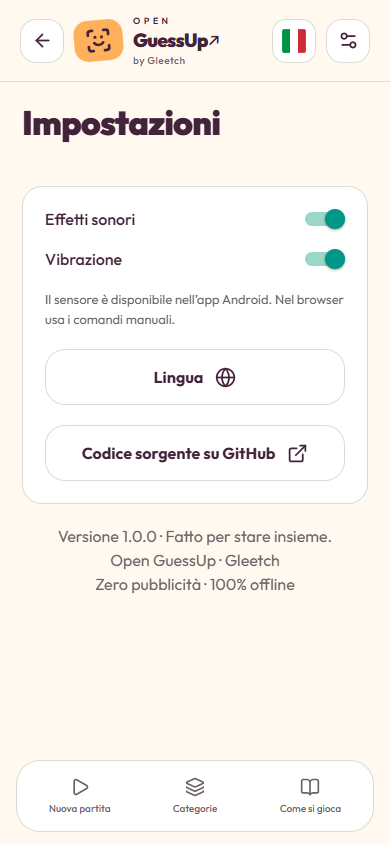
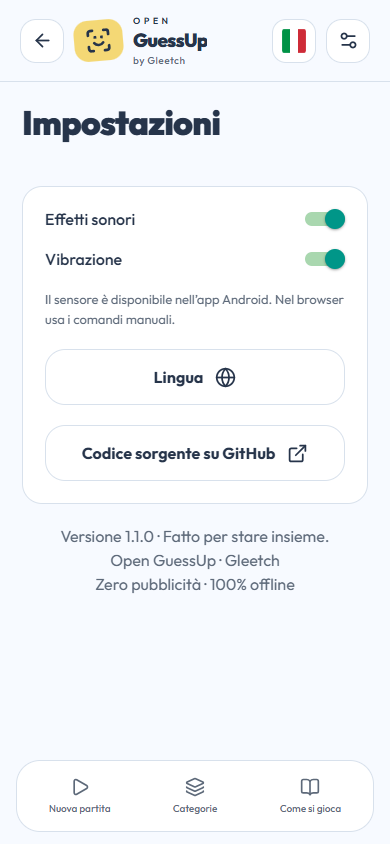
Release Open GuessUp v1.1.0 with installation README

diff --git a/src/i18n/messages.ts b/src/i18n/messages.ts
@@ -77,7 +77,7 @@ Metti il telefono sulla fronte. Non sbirciare: gli amici vedono la parola, tu no
 Segui l’indizio: descrivi senza dire la risposta, mima senza parlare, canta senza dire il titolo o imita senza fare il nome.|||Follow the clue: describe without saying the answer, mime silently, sing without naming the title, or impersonate without naming the person.|||Sigue la pista: describe sin decir la respuesta, haz mímica en silencio, canta sin decir el título o imita sin decir el nombre.|||Beschreiben ohne Lösungswort, stumm darstellen, singen ohne Titel oder imitieren ohne Namen.|||Suis l’indice : décris sans dire la réponse, mime en silence, chante sans citer le titre ou imite sans donner le nom.
 Giù: +1. Su: passa. Ritorna al centro. Alla fine correggete gli esiti insieme e confermate. Vince chi ha più punti; il pareggio si festeggia insieme.|||Down: +1. Up: skip. Return to centre. Review outcomes together before confirming. Most points wins; celebrate ties together.|||Abajo: +1. Arriba: pasar. Vuelve al centro. Revisad los resultados y confirmad. Gana quien tenga más puntos; los empates se celebran juntos.|||Runter: +1. Hoch: passen. Zurück zur Mitte. Ergebnisse gemeinsam prüfen und bestätigen. Die meisten Punkte gewinnen; Gleichstand wird gemeinsam gefeiert.|||En bas : +1. En haut : passer. Reviens au centre. Vérifiez les résultats ensemble et confirmez. Le meilleur score gagne ; une égalité se fête ensemble.
 Archiviazione non disponibile: mantieni aperta l’app per conservare la partita.|||Storage unavailable: keep the app open to retain the game.|||Almacenamiento no disponible: mantén la app abierta para conservar la partida.|||Speicher nicht verfügbar: App geöffnet lassen, um das Spiel zu behalten.|||Stockage indisponible : garde l’application ouverte pour conserver la partie.
-Versione 1.0.0 · Fatto per stare insieme.|||Version 1.0.0 · Made to be together.|||Versión 1.0.0 · Hecho para estar juntos.|||Version 1.0.0 · Für gemeinsame Momente.|||Version 1.0.0 · Pour être ensemble.
+Versione {{0}} · Fatto per stare insieme.|||Version {{0}} · Made to be together.|||Versión {{0}} · Hecho para estar juntos.|||Version {{0}} · Für gemeinsame Momente.|||Version {{0}} · Pour être ensemble.
 Torna al centro|||Return to centre|||Vuelve al centro|||Zurück zur Mitte|||Reviens au centre
 Nessuna parola prima del via. Promesso.|||No word before the start. Promise.|||Ninguna palabra antes de empezar. Prometido.|||Kein Wort vor dem Start. Versprochen.|||Aucun mot avant le départ. Promis.
 Sei pronto?|||Ready?|||¿Listo?|||Bereit?|||Prêt ?

diff --git a/src/screens/Menu.tsx b/src/screens/Menu.tsx
@@ -51,6 +51,7 @@ import {
 } from "../components/UI";
 import { HeroArt } from "../components/HeroArt";
 import { C, FONT, accentInk } from "../theme";
+import { APP_VERSION } from "../version";
 import { LANGUAGES, useI18n } from "../i18n/context";
 import { categories } from "../data/catalog";
 import { CustomDeck, parseWords, validDeck } from "../data/custom";
@@ -261,7 +262,12 @@ export function Home({
         <View style={{ flexDirection: mobile ? "column" : "row", gap: 16 }}>
           {[
             [Zap, "Rapida", "Un turno, tutti contro il timer.", C.yellow],
-            [Users, "A squadre", "2–4 squadre. Una fronte alla volta.", C.green],
+            [
+              Users,
+              "A squadre",
+              "2–4 squadre. Una fronte alla volta.",
+              C.green,
+            ],
           ].map(([I, title, sub, color], i) => {
             const Icon = I as typeof Users;
             return (
@@ -338,7 +344,7 @@ export function Home({
           paddingBottom: 12,
         }}
       >
-        {t("Versione 1.0.0 · Fatto per stare insieme.")}
+        {t("Versione {{0}} · Fatto per stare insieme.", APP_VERSION)}
       </Txt>
     </View>
   );

diff --git a/App.tsx b/App.tsx
@@ -47,6 +47,7 @@ import {
   Txt,
 } from "./src/components/UI";
 import { C, FONT } from "./src/theme";
+import { APP_VERSION } from "./src/version";
 import { LanguageFlag } from "./src/components/LanguageFlag";
 import { Decks, Home, Rules, Setup, Toggle } from "./src/screens/Menu";
 import { Match } from "./src/screens/Match";
@@ -582,7 +583,10 @@ function Main() {
                         lineHeight: 24,
                       }}
                     >
-                      {t("Versione 1.0.0 · Fatto per stare insieme.")}
+                      {t(
+                        "Versione {{0}} · Fatto per stare insieme.",
+                        APP_VERSION,
+                      )}
                       {"\n"}Open GuessUp · Gleetch{"\n"}
                       {t("Zero pubblicità")} · 100% offline
                     </Txt>

diff --git a/src/version.ts b/src/version.ts
@@ -1,0 +1,3 @@
+import config from "../app.json";
+
+export const APP_VERSION = config.expo.version;

diff --git a/README.md b/README.md
@@ -1,9 +1,32 @@
 # Open GuessUp
 
+**Versione 1.1.0 · by Gleetch**
+
 **Tu non vedi. Loro ridono.** Un party game offline per Android e web, con un solo telefono, realizzato con Expo SDK 58, React Native e TypeScript. Progetto indipendente di Gleetch. Identità Confetti: rosso, verde, blu e giallo pastello su bianco freddo, con Outfit, logo e icona originali. [Note di design](docs/DESIGN.md).
+
+[**Scarica l’APK Android 1.1.0**](https://github.com/PaoloConteDev/OpenGuessUp/releases/download/v1.1.0/OpenGuessUp-1.1.0-arm64.apk) · [Release e sorgenti](https://github.com/PaoloConteDev/OpenGuessUp/releases/tag/v1.1.0)
+
+- Una partita rapida oppure 2–4 squadre, con nomi e durata personalizzabili.
+- 12 categorie, 3.600 voci per lingua e mazzi personali modificabili.
+- Italiano, inglese, spagnolo, francese e tedesco.
+- Inclinazione su Android; pulsanti e tastiera per giocare anche sul web.
+- Nessun account, pubblicità, acquisto, tracking o backend necessario.
 
 ![Home](docs/home-desktop-it.png)
 ![Turno landscape](docs/turn-landscape-it.png)
+
+## Installare e aggiornare
+
+Scarica l’APK su un telefono Android **ARM64 con Android 7 o successivo**, aprilo e consenti l’installazione dalla fonte scelta. L’app funziona senza Expo Go; dati, font, illustrazione e suoni sono inclusi per giocare offline dal primo avvio.
+
+Se hai già installato la 1.0.0 di questa repository, apri il nuovo APK per aggiornarla conservando impostazioni, mazzi e partita salvata. La 1.1.0 mantiene package e certificato di firma; non serve disinstallare. Il file resta una build autonoma firmata con chiave debug, destinata a test e installazione diretta. I digest SHA-256 sono disponibili in `SHA256SUMS.txt` negli allegati della release.
+
+## Novità della 1.1.0
+
+- Identità Confetti a quattro colori pastello e illustrazione 3D originale nella home.
+- Icona Android coordinata al simbolo della home, bandiere delle lingue e firma “by Gleetch”.
+- Numero di versione aggiornato in tutta l’interfaccia, letto dalla configurazione dell’app.
+- README con download, regole, configurazione e istruzioni di compilazione.
 
 ## Avvio
 
@@ -29,7 +52,7 @@ Apri [127.0.0.1:4174](http://127.0.0.1:4174). [Anteprima telefono](http://127.0.
 
 1. Scegli e mescola categorie incluse e mazzi personali, oppure usa la categoria iniziale Animali.
 2. Configura una partita rapida (un turno) oppure 2–4 squadre. Ogni squadra gioca un turno per ciascun round.
-3. Tieni il telefono **in orizzontale sulla fronte**, schermo verso gli amici. Calibra tenendolo verticale e fermo per un secondo, poi avvia il countdown. La parola appare solo dopo il via.
+3. Tieni il telefono **in orizzontale sulla fronte**, schermo verso gli amici. Premi Calibra: hai 3 secondi per posizionarlo, poi resta fermo per circa un secondo. Avvia il countdown; la parola appare solo dopo il via.
 4. Gli amici seguono il tipo di indizio: descrivere senza dire la risposta; mimare senza parlare; cantare/fredonnare senza nominare l'artista o il titolo; imitare senza fare il nome. Per le scene bisogna indovinare l'intera situazione, non soltanto il personaggio.
 5. Inclina **in basso** per indovinata (+1), **in alto** per passare. Torna alla posizione verticale dopo ogni gesto. Sono sempre disponibili anche i pulsanti.
 6. Alla fine rivedete e correggete gli esiti, quindi confermate. Una parola senza risposta vale zero. Vince il punteggio più alto; tutti i primi a pari merito vincono.
@@ -67,7 +90,7 @@ Il timer usa una scadenza temporale, non il conteggio degli intervalli. Il backg
 | Emozioni in scena     | Imitazione                   |             300 |
 | Viaggi e disavventure | Indizi liberi                |             300 |
 
-Italiano, inglese, spagnolo, tedesco e francese includono interfaccia, regole, metadati e voci. Prima lingua dal dispositivo, fallback inglese; il selettore IT/EN/ES/DE/FR salva la preferenza. Un cambio lingua non traduce la partita in corso: la sua copia delle parole resta nella lingua di creazione.
+Italiano, inglese, spagnolo, tedesco e francese includono interfaccia, regole, metadati e voci. Prima lingua dal dispositivo, fallback inglese; il selettore con bandiere salva la preferenza. Un cambio lingua non traduce la partita in corso: la sua copia delle parole resta nella lingua di creazione.
 
 I pacchetti contengono sia parole sia espressioni e scene complete. Animali, cibo e altri repertori condividono parte del lessico originale del progetto dell'utente Open Taboo; sono state aggiunte specie, piatti, artisti e scene originali per Open GuessUp. I pacchetti di scene combinano protagonisti, azioni e vincoli: ad esempio «Un vampiro va dal dentista» è una situazione da recitare. Non sono presenti liste di parole vietate o dati estratti da GuessUp. La localizzazione è inclusa e controllata automaticamente per integrità e duplicati; resta consigliabile una revisione editoriale da madrelingua per terminologia specialistica e naturalezza di alcune scene.
 
@@ -95,11 +118,11 @@ Riferimenti tecnici: [coordinate dei sensori Android](https://developer.android.
 
 ## APK Android
 
-Scarica l'APK per telefoni ARM64 dalla [release v1.0.0](https://github.com/PaoloConteDev/OpenGuessUp/releases/tag/v1.0.0) (circa 27 MB). Nelle build locali il file è `artifacts/OpenGuessUp-1.0.0-arm64.apk`. Copialo sul telefono, aprilo e consenti l'installazione dalla fonte scelta. È un APK autonomo di test, firmato con la chiave debug Expo; non richiede Expo Go. Firma e metadati sono controllati, ma non è stato installato su un dispositivo fisico durante questa sessione.
+L’APK ARM64 della [release v1.1.0](https://github.com/PaoloConteDev/OpenGuessUp/releases/tag/v1.1.0) pesa circa 30 MB. Il file locale è `artifacts/OpenGuessUp-1.1.0-arm64.apk`; i sorgenti completi sono nell’allegato `OpenGuessUp-1.1.0-source.zip`. Firma e metadati sono controllati, ma non è stato installato su un dispositivo fisico durante questa sessione.
 
-Identità autonoma: **Open GuessUp**, slug `open-guess`, schema `openguess`, package `it.gleetch.openguess`, versione 1.0.0. Nessun ID EAS, proprietario o segreto di Open Taboo. Android minimo API 24. Icone e suoni propri inclusi.
+Identità autonoma: **Open GuessUp**, slug `open-guess`, schema `openguess`, package `it.gleetch.openguess`, versione 1.1.0. Nessun ID EAS, proprietario o segreto di Open Taboo. Android minimo API 24. Icone e suoni propri inclusi.
 
-Durante queste revisioni la versione pubblica resta **1.0.0**, come richiesto. Le build Android mantengono un `versionCode` interno crescente per poter aggiornare le copie già installate; questo numero non cambia la versione mostrata agli utenti.
+La versione pubblica **1.1.0** corrisponde al `versionCode` Android **18**. La versione mostrata in home e impostazioni proviene da `app.json`, attraverso `src/version.ts`. Il `versionCode` cresce separatamente per consentire gli aggiornamenti Android.
 
 La [repository GitHub](https://github.com/PaoloConteDev/OpenGuessUp) è raggiungibile anche dalle impostazioni dell'app. Sorgenti, dati, font e suoni sono inclusi nel progetto; APK e archivi di consegna vengono distribuiti negli allegati della release.
 
@@ -146,6 +169,7 @@ I test del motore verificano punteggi, penalità, turni uguali per 2–4 squadre
 ## Struttura
 
 - `App.tsx`: navigazione, ciclo di vita, scadenza e persistenza.
+- `src/version.ts`: versione pubblica letta dalla configurazione Expo.
 - `src/game/engine.ts`: motore puro, nessuna dipendenza UI, storage o sensore.
 - `src/game/tilt.ts`: filtro e isteresi puri.
 - `src/hooks/useTilt.ts`: acquisizione Expo e calibrazione.
@@ -156,3 +180,5 @@ I test del motore verificano punteggi, penalità, turni uguali per 2–4 squadre
 - `scripts/assets.mjs`: rigenera icona e suoni sintetizzati originali.
 
 Font Outfit e icone Lucide conservano le rispettive licenze; vedere `THIRD_PARTY_NOTICES.md`. Open GuessUp non è affiliato a Cosmicode o GuessUp. Riferimenti di meccanica consultati: [sito ufficiale](https://cosmicode.games/en/guess-up) e [scheda Google Play](https://play.google.com/store/apps/details?id=pt.cosmicode.guessup&hl=it). Nessuna immagine, logo, traccia audio o banca dati di GuessUp è inclusa.
+
+Codice distribuito con [licenza MIT](LICENSE). [Asset e prompt dell’illustrazione](docs/HERO_ART.md).

diff --git a/docs/VALIDATION.md b/docs/VALIDATION.md
@@ -10,20 +10,20 @@ Ambiente: Windows, Node 22.14.0, Expo SDK 58, React 19.3 / React Native 0.88, Ty
 - Registrazione rimossa completamente: componente, stato UI, pulizia video e dipendenze dirette dedicate eliminati; fotocamera, microfono e accesso alla galleria esclusi dalla configurazione Android.
 - Sensore: 3 secondi per posizionare il telefono prima della misura, angolo ricavato dai tre assi, soglie angolari e stabilità basate sul tempo. Corretto il fallback manuale che lasciava attivo il rilevatore e il recupero dopo un’interruzione dei campioni. Prova dell’inclinazione disponibile prima del turno, senza assegnare punti. Il browser presenta soltanto controlli manuali.
 - 17 test dedicati al sensore con stream e orologio simulati: landscape in entrambe le direzioni, rumore, ritorno neutro, 5/10/20/50 Hz, primo gesto dopo countdown, posizionamento dopo il tocco, posizione troppo piatta, perdita e ritorno del segnale, calibrazione e listener cancellati all’uscita. Totale: 60 test. Nessun telefono o emulatore collegato durante questa revisione.
-- Pulsante “Codice sorgente su GitHub” nelle impostazioni, tradotto nelle cinque lingue. Verificata l’apertura dell’URL esatto `https://github.com/PaoloConteDev/OpenGuessUp`; screenshot `version-mobile-it.png` aggiornato. Sorgenti pubblicati nella repo e build distribuita come release v1.0.0.
-- Marchio e nome pubblico corretti in “Open GuessUp”, con G e U maiuscole; versione pubblica sempre 1.0.0. Verificata la testata a 320 e 390 px. Identificativi tecnici e chiavi locali restano stabili per conservare i dati e consentire gli aggiornamenti.
-- Versione pubblica fissata a 1.0.0 in Expo, package, lockfile e testi delle cinque lingue. Verificata anche nelle impostazioni renderizzate (`version-mobile-it.png`). Il codice build Android cresce separatamente per consentire gli aggiornamenti.
+- Pulsante “Codice sorgente su GitHub” nelle impostazioni, tradotto nelle cinque lingue. Verificata l’apertura dell’URL esatto `https://github.com/PaoloConteDev/OpenGuessUp`; screenshot `version-mobile-it.png` aggiornato. Sorgenti pubblicati nella repo e build distribuita come release v1.1.0.
+- Marchio e nome pubblico corretti in “Open GuessUp”, con G e U maiuscole; versione pubblica 1.1.0. Verificata la testata a 320 e 390 px. Identificativi tecnici e chiavi locali restano stabili per conservare i dati e consentire gli aggiornamenti.
+- Versione pubblica aggiornata a 1.1.0 in Expo, package e lockfile. Home e impostazioni leggono il valore dalla configurazione, con stringa parametrica nelle cinque lingue. Verificata anche nelle impostazioni renderizzate (`version-mobile-it.png`). Il codice build Android cresce separatamente per consentire gli aggiornamenti.
 - Firma “by Gleetch” sotto il marchio e selettore con bandiere vettoriali locali per tutte le lingue. Controllo visivo della testata a 320 e 390 px e della schermata lingua; screenshot `header-compact-it.png` e `languages-mobile-it.png`.
 - Ripristinati i metadati delle dipendenze nel lockfile dopo una sostituzione di versione troppo ampia. Versioni e URL confrontati con il lockfile dei pacchetti installati; `npm ci --dry-run --ignore-scripts --offline --no-audit --no-fund` riuscito.
-- Revisione grafica 1.0.0: identità Confetti in quattro colori pastello, marchio e icona coordinati, barra di navigazione flottante, categorie con superfici colorate e selettori a capsula. Controllo visivo su mobile, desktop e turno landscape. Dettagli in `DESIGN.md`.
-- APK 1.0.0: build riuscita, versionCode 17, firma v2 verificata e certificato identico alle build precedenti. Può essere installato come aggiornamento conservando i dati locali. La directory breve `C:\og-build-20261026` conserva la cache della build per le prossime iterazioni grafiche.
+- Revisione grafica 1.1.0: identità Confetti in quattro colori pastello, marchio e icona coordinati, barra di navigazione flottante, categorie con superfici colorate e selettori a capsula. Controllo visivo su mobile, desktop e turno landscape. Dettagli in `DESIGN.md`.
+- APK 1.1.0: build riuscita, versionCode 18, firma v2 verificata e certificato identico alle build precedenti. Può essere installato come aggiornamento conservando i dati locali. La directory breve `C:\og-build-20261026` conserva la cache della build per le prossime iterazioni grafiche.
 
 - `npm run typecheck`: riuscito.
 - `npm test`: 60 test riusciti, nessun fallimento. Copertura di punteggi, penalità, scadenza, pause, deduplicazione, review, mescolamento, recupero salvataggi, mazzi e integrità delle cinque lingue. La matrice di turnazione include 2/3/4 squadre × 1/3/5/7 round.
 - `npm run export:web`: export Metro di produzione riuscito, font e suoni locali.
 - `npm run export:android`: export Hermes e asset riuscito. Questo controllo **non equivale a un APK**.
-- Build Android nativa `assembleRelease`: riuscita dalla copia temporanea a percorso breve, con le dipendenze native di sensori, orientamento e audio. APK ARM64, minSdk 24, package `it.gleetch.openguess`, versione 1.0.0. Le prime compilazioni nella cartella profonda fallivano sul limite di 260 caratteri di Ninja; la copia breve ha risolto il problema senza cambiare impostazioni di Windows o file di Open Taboo.
-- APK finale: `artifacts/OpenGuessUp-1.0.0-arm64.apk`. `apksigner verify --verbose`: firma APK v2 valida, un firmatario. `aapt dump badging`: nome Open GuessUp, package e versione corretti, minSdk 24 / targetSdk 36, ABI arm64-v8a. Archivio ispezionato: libreria nativa, bundle Hermes, font e suoni inclusi. Digest SHA-256 in `artifacts/SHA256SUMS.txt`. Sorgenti completi separati in `artifacts/OpenGuessUp-source.zip`.
+- Build Android nativa `assembleRelease`: riuscita dalla copia temporanea a percorso breve, con le dipendenze native di sensori, orientamento e audio. APK ARM64, minSdk 24, package `it.gleetch.openguess`, versione 1.1.0. Le prime compilazioni nella cartella profonda fallivano sul limite di 260 caratteri di Ninja; la copia breve ha risolto il problema senza cambiare impostazioni di Windows o file di Open Taboo.
+- APK finale: `artifacts/OpenGuessUp-1.1.0-arm64.apk`. `apksigner verify --verbose`: firma APK v2 valida, un firmatario. `aapt dump badging`: nome Open GuessUp, package e versione corretti, minSdk 24 / targetSdk 36, ABI arm64-v8a. Archivio ispezionato: libreria nativa, bundle Hermes, font e suoni inclusi. Digest SHA-256 in `artifacts/SHA256SUMS.txt`. Sorgenti completi separati in `artifacts/OpenGuessUp-1.1.0-source.zip`.
 - `node scripts/smoke.mjs`: prova end-to-end su Edge headless, con UI reale. Home mobile/desktop; ricerca; mazzo personale con spazi e duplicati; partita rapida; tastiera; pausa, uscita, ricaricamento e ripresa; scadenza reale di 30 secondi; modifica esiti; conferma; rivincita; cambio di tutte le lingue; due squadre, un round e pareggio.
 - `node scripts/extra-smoke.mjs`: avvio da JSON corrotto, mazzo vuoto non selezionabile, modifica ed eliminazione, copia immutabile nella partita salvata, espressione lunga di 93 caratteri, pausa per perdita di focus, categorie e configurazione desktop.
 - Verifica visiva dei PNG: home mobile e desktop, categorie mobile e griglia desktop, configurazione mobile e desktop, preparazione, turno landscape (anche testo lungo), pausa, riepilogo e risultati. Durante la verifica è stato corretto il troncamento delle espressioni lunghe.

diff --git a/docs/RELEASE-v1.1.0.md b/docs/RELEASE-v1.1.0.md
@@ -1,0 +1,25 @@
+# Open GuessUp v1.1.0
+
+Party game offline per Android: un telefono sulla fronte, gli amici danno gli indizi e tu indovini. Questa release raccoglie l’identità Confetti a quattro colori pastello e la nuova illustrazione 3D della home, con README completo e versione 1.1.0 visibile nelle cinque lingue.
+
+## Novità
+
+- Rosso, verde, blu e giallo pastello su bianco freddo, con testo blu scuro.
+- Illustrazione originale con telefono, carte e gettoni, inclusa offline nell’app.
+- Icona Android coordinata alla home, firma “by Gleetch”, bandiere delle lingue e link alla repository nelle impostazioni.
+- Versione di home e impostazioni letta dalla configurazione, per mantenere coerenti i futuri aggiornamenti.
+- README con download diretto, regole, categorie, mazzi personali, avvio web e compilazione Android.
+
+## Gioco
+
+Partita rapida o 2–4 squadre, dodici categorie con 3.600 voci per lingua, mazzi personali, salvataggio locale, timer configurabile e riepilogo modificabile. Interfaccia e contenuti in italiano, inglese, spagnolo, francese e tedesco. Controlli manuali e tramite inclinazione su Android; pulsanti e tastiera nel browser. Nessun account, pubblicità, acquisto, tracking o backend necessario. La registrazione resta rimossa.
+
+## Installazione e aggiornamento
+
+Scarica **`OpenGuessUp-1.1.0-arm64.apk`** su un telefono ARM64 con Android 7/API 24 o successivo. È un APK autonomo, senza Expo Go, firmato con la stessa chiave debug delle build precedenti. Installa sopra la 1.0.0 per mantenere impostazioni, mazzi e partita salvata. Versione Android: 1.1.0, codice build 18.
+
+Gli allegati comprendono anche `OpenGuessUp-1.1.0-source.zip` e `SHA256SUMS.txt`. La release 1.0.0 resta disponibile nello storico.
+
+## Verifiche e limiti
+
+Typecheck, 60 test automatici ed export web superati. APK nativo ARM64 compilato, metadati e firma controllati; controlli browser della versione nelle cinque lingue, in home e nelle impostazioni. Il sensore è coperto da test con campioni simulati: sensori, orientamento e feedback tattile richiedono ancora un collaudo su telefono fisico. Dettagli in `docs/VALIDATION.md`.

diff --git a/docs/DESIGN.md b/docs/DESIGN.md
@@ -1,4 +1,4 @@
-# Identità Open GuessUp — Confetti 1.0.0
+# Identità Open GuessUp — Confetti 1.1.0
 
 Rosso, verde, blu e giallo pastello su una base bianco freddo. Il testo blu scuro sostituisce il prugna; le superfici colorate sostituiscono crema, pesca e rosa. La pelle dell’illustrazione mantiene una tonalità naturale.
 
